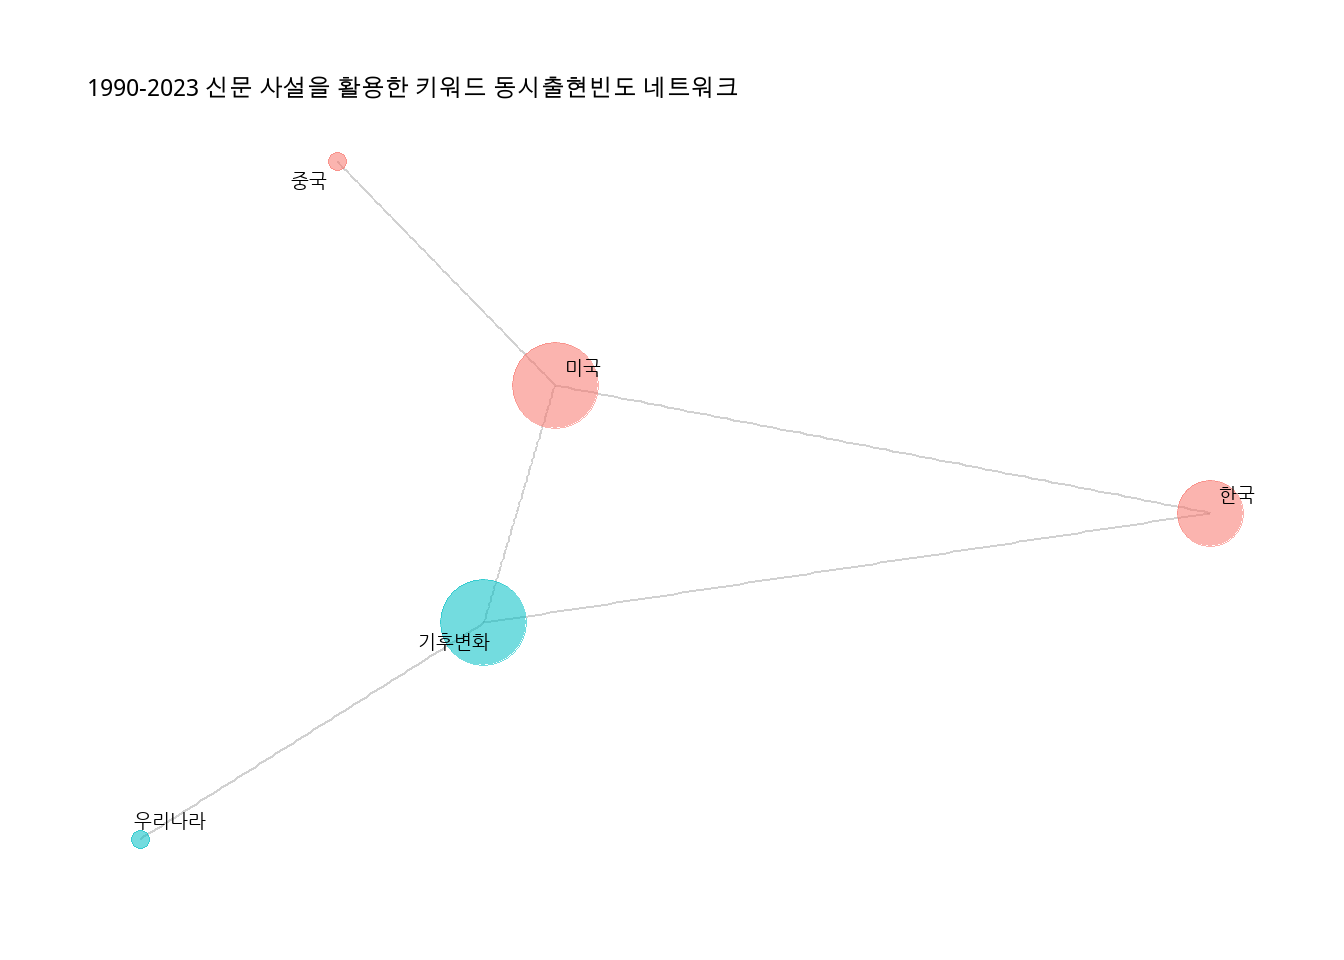
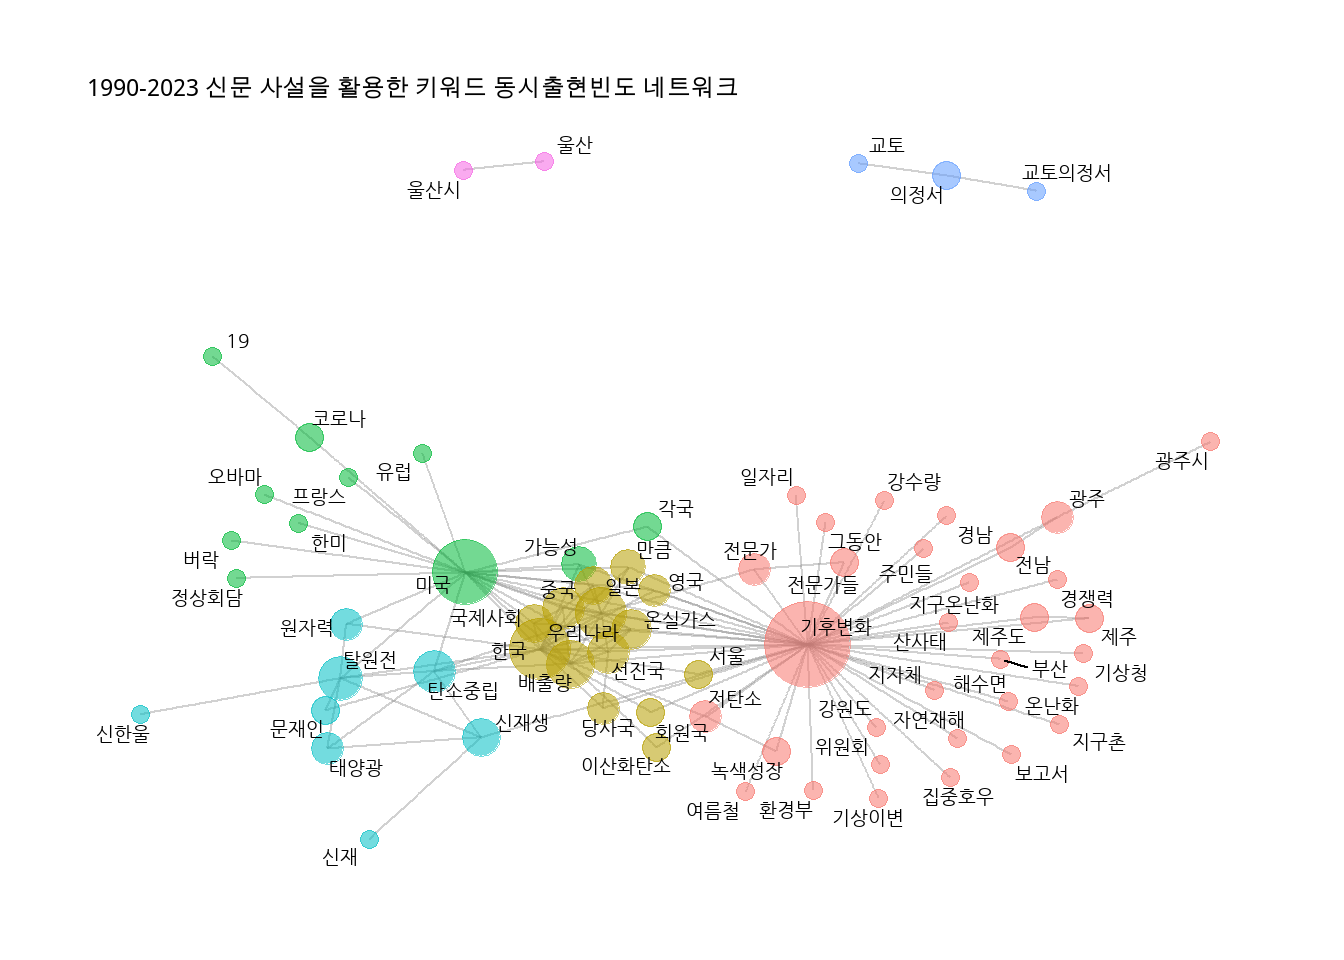
filter > 50

diff --git a/docs/project_with_code.html b/docs/project_with_code.html
@@ -176,7 +176,7 @@ code span.wa { color: #60a0b0; font-weight: bold; font-style: italic; } /* Warni
   <li><a href="#특정-키워드만-미국-보기---미국이-들어간-컬럼만-보기" id="toc-특정-키워드만-미국-보기---미국이-들어간-컬럼만-보기" class="nav-link" data-scroll-target="#특정-키워드만-미국-보기---미국이-들어간-컬럼만-보기"><span class="toc-section-number">5.3</span>  특정 키워드만 (’미국) 보기 - 미국이 들어간 컬럼만 보기</a></li>
   <li><a href="#정권별로-구분해서---count로" id="toc-정권별로-구분해서---count로" class="nav-link" data-scroll-target="#정권별로-구분해서---count로"><span class="toc-section-number">5.4</span>  정권별로 구분해서? - count로</a></li>
   <li><a href="#네트워크-만들기" id="toc-네트워크-만들기" class="nav-link" data-scroll-target="#네트워크-만들기"><span class="toc-section-number">5.5</span>  네트워크 만들기</a></li>
-  <li><a href="#연결중심성-pairwise_count-단어-동시-출현-빈도" id="toc-연결중심성-pairwise_count-단어-동시-출현-빈도" class="nav-link" data-scroll-target="#연결중심성-pairwise_count-단어-동시-출현-빈도"><span class="toc-section-number">5.6</span>  연결중심성 pairwise_count : 단어 동시 출현 빈도</a></li>
+  <li><a href="#연결중심성-pairwise_count-단어-동시-출현-빈도-filter-50" id="toc-연결중심성-pairwise_count-단어-동시-출현-빈도-filter-50" class="nav-link" data-scroll-target="#연결중심성-pairwise_count-단어-동시-출현-빈도-filter-50"><span class="toc-section-number">5.6</span>  연결중심성 pairwise_count : 단어 동시 출현 빈도 (filter &gt;=50)</a></li>
   </ul></li>
   </ul>
 </nav>
@@ -460,7 +460,7 @@ nickname       Beagle Scouts                    </code></pre>
 5 2008-03-10 제민일보   제주,이산화탄소,제주환경,기후변화,느티나무,화… 이명박   
 6 2008-02-29 제민일보   제주,신성장동력산업,문화콘텐츠,제주도,가능성,… 이명박   </code></pre>
 </div>
-<div class="sourceCode cell-code" id="cb22"><pre class="sourceCode r code-with-copy"><code class="sourceCode r"><span id="cb22-1"><a href="#cb22-1" aria-hidden="true" tabindex="-1"></a><span class="do">## 2357개 사설</span></span>
+<div class="sourceCode cell-code" id="cb22"><pre class="sourceCode r code-with-copy"><code class="sourceCode r"><span id="cb22-1"><a href="#cb22-1" aria-hidden="true" tabindex="-1"></a><span class="do">## 몇개의 사설??</span></span>
 <span id="cb22-2"><a href="#cb22-2" aria-hidden="true" tabindex="-1"></a><span class="fu">nrow</span>(news.selected)</span></code><button title="Copy to Clipboard" class="code-copy-button"><i class="bi"></i></button></pre></div>
 <div class="cell-output cell-output-stdout">
 <pre><code>[1] 3102</code></pre>
@@ -929,8 +929,8 @@ nickname       Beagle Scouts                    </code></pre>
 </div>
 </div>
 </section>
-<section id="연결중심성-pairwise_count-단어-동시-출현-빈도" class="level2" data-number="5.6">
-<h2 data-number="5.6" class="anchored" data-anchor-id="연결중심성-pairwise_count-단어-동시-출현-빈도"><span class="header-section-number">5.6</span> 연결중심성 pairwise_count : 단어 동시 출현 빈도</h2>
+<section id="연결중심성-pairwise_count-단어-동시-출현-빈도-filter-50" class="level2" data-number="5.6">
+<h2 data-number="5.6" class="anchored" data-anchor-id="연결중심성-pairwise_count-단어-동시-출현-빈도-filter-50"><span class="header-section-number">5.6</span> 연결중심성 pairwise_count : 단어 동시 출현 빈도 (filter &gt;=50)</h2>
 <div class="cell">
 <div class="sourceCode cell-code" id="cb46"><pre class="sourceCode r code-with-copy"><code class="sourceCode r"><span id="cb46-1"><a href="#cb46-1" aria-hidden="true" tabindex="-1"></a>pairwise_count_1<span class="ot">&lt;-</span> news.selected<span class="sc">%&gt;%</span> </span>
 <span id="cb46-2"><a href="#cb46-2" aria-hidden="true" tabindex="-1"></a>    <span class="fu">select</span>(keyword) <span class="sc">%&gt;%</span> </span>
@@ -942,7 +942,7 @@ nickname       Beagle Scouts                    </code></pre>
 <span id="cb46-8"><a href="#cb46-8" aria-hidden="true" tabindex="-1"></a>    <span class="fu">pairwise_count</span>(<span class="at">item =</span> word,     <span class="do">## pairwise_count  : 단어 동시 출현 빈도</span></span>
 <span id="cb46-9"><a href="#cb46-9" aria-hidden="true" tabindex="-1"></a>                   <span class="at">feature =</span> rowid,</span>
 <span id="cb46-10"><a href="#cb46-10" aria-hidden="true" tabindex="-1"></a>                   <span class="at">sort =</span> T) <span class="sc">%&gt;%</span> </span>
-<span id="cb46-11"><a href="#cb46-11" aria-hidden="true" tabindex="-1"></a>    <span class="fu">filter</span>(n <span class="sc">&gt;=</span><span class="dv">200</span>) <span class="sc">%&gt;%</span>  <span class="do">##</span></span>
+<span id="cb46-11"><a href="#cb46-11" aria-hidden="true" tabindex="-1"></a>    <span class="fu">filter</span>(n <span class="sc">&gt;=</span><span class="dv">50</span>) <span class="sc">%&gt;%</span>  <span class="do">##</span></span>
 <span id="cb46-12"><a href="#cb46-12" aria-hidden="true" tabindex="-1"></a>    <span class="fu">as_tbl_graph</span>(<span class="at">directed =</span> F) <span class="sc">%&gt;%</span> </span>
 <span id="cb46-13"><a href="#cb46-13" aria-hidden="true" tabindex="-1"></a>    <span class="fu">mutate</span>(<span class="at">centrality =</span> <span class="fu">centrality_degree</span>(),        <span class="co"># 연결 중심성 or centrality_edge_betweenness()  참고: https://tidygraph.data-imaginist.com/</span></span>
 <span id="cb46-14"><a href="#cb46-14" aria-hidden="true" tabindex="-1"></a>           <span class="at">group =</span> <span class="fu">as.factor</span>(<span class="fu">group_louvain</span>()))  <span class="sc">%&gt;%</span> </span>
